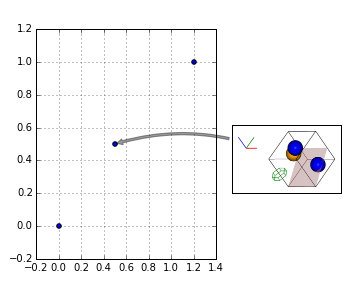
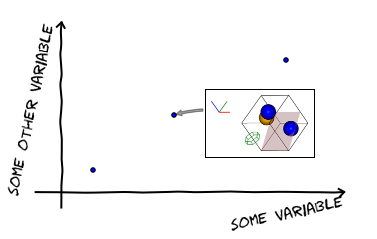
updated docs

diff --git a/docs/source/conf.py b/docs/source/conf.py
@@ -48,7 +48,7 @@ MOCK_MODULES = ['cclib', 'cclib.parser', 'cclib.parser.utils',
 'chemview', 'chemview.widget', 'chemview.utils', 'chemview.marchingcubes',
 'paramiko', 'numpy', 'numpy.linalg',
 'OpenGL', 'OpenGL.GL',
-'matplotlib', 'matplotlib.pyplot', 'matplotlib.cm', 'matplotlib.offsetbox',
+'matplotlib', 'matplotlib.pyplot', 'matplotlib.cm', 'matplotlib.offsetbox','matplotlib.font_manager',
 'matplotlib.colors', 'mpl_toolkits', 'mpl_toolkits.mplot3d','matplotlib.patches',
 'pandas', 'pandas.tools', 'pandas.tools.plotting', 'pandas.core', 'pandas.core.index',
 'sklearn', 'sklearn.cluster',

diff --git a/docs/source/tutorial.rst b/docs/source/tutorial.rst
@@ -14,7 +14,6 @@ In the IPython Notebook, the ipymd package must first be imported:
     0.3.0
 
 
-
 Basic Atom Creation and Visualisation
 ~~~~~~~~~~~~~~~~~~~~~~~~~~~~~~~~~~~~~
 
@@ -60,7 +59,7 @@ which is returned in the form of a ``PIL`` image.
 
 .. parsed-literal::
 
-    <PIL.Image._ImageCrop image mode=RGBA size=134x54 at 0x117DC6D88>
+    <PIL.Image._ImageCrop image mode=RGBA size=134x54 at 0x118EF3B90>
 
 
 
@@ -104,12 +103,14 @@ Images can also be added to plots, with the ``Plotting`` class:
 
 .. code:: python
 
-    plot = ipymd.plotting.Plotting()
-    plot.axes[0].scatter([0,0.5,1.2],[0,0.5,1])
-    plot.axes[0].grid(True)
+    plot = ipymd.plotting.Plotter(figsize=(5,3))
+    plot.axes.scatter([0,0.5,1.2],[0,0.5,1])
+    plot.axes.set_xlabel('some variable')
+    plot.axes.set_ylabel('some other variable')
     plot.add_image_annotation(img2,(250,100),(0.5,0.5),zoom=0.5)
-    plot.resize_axes(width=0.5)
-    plot.display_plot(tight_layout=False)
+    #plot.resize_axes(width=0.5)
+    plot.apply_xkcd_style()
+    plot.display_plot(tight_layout=True)
 
 
 
@@ -777,7 +778,8 @@ unknown structure:
     data = ipymd.data_input.lammps.LAMMPS_Output(lammps_path)
     df = data.get_atom_data(0)
     df = df[df.type==1]
-    plt = ipymd.atom_analysis.nearest_neighbour.cna_plot(df,repeat_vectors=data.get_simulation_box(0)[0])
+    plot = ipymd.atom_analysis.nearest_neighbour.cna_plot(df,repeat_vectors=data.get_simulation_box(0)[0])
+    plot.display_plot()
 
 
 
@@ -867,8 +869,8 @@ algorithm, from http://http://dx.doi.org/10.1007/s11837-013-0829-3.
     wlambda = 1.542 # Angstrom (Cu K-alpha)
     thetas, Is = ipymd.atom_analysis.spectral.compute_xrd(atoms_df,sim_abc,wlambda)
     plot = ipymd.atom_analysis.spectral.plot_xrd_hist(thetas,Is,wlambda=wlambda,barwidth=1)
-    plot.axes[0].set_xlim(20,90)
-    plot.display_plot()
+    plot.axes.set_xlim(20,90)
+    plot.display_plot(True)
 
 
 
@@ -1019,4 +1021,3 @@ timestep.
 
 
 .. image:: images/output_72_0.png
-
